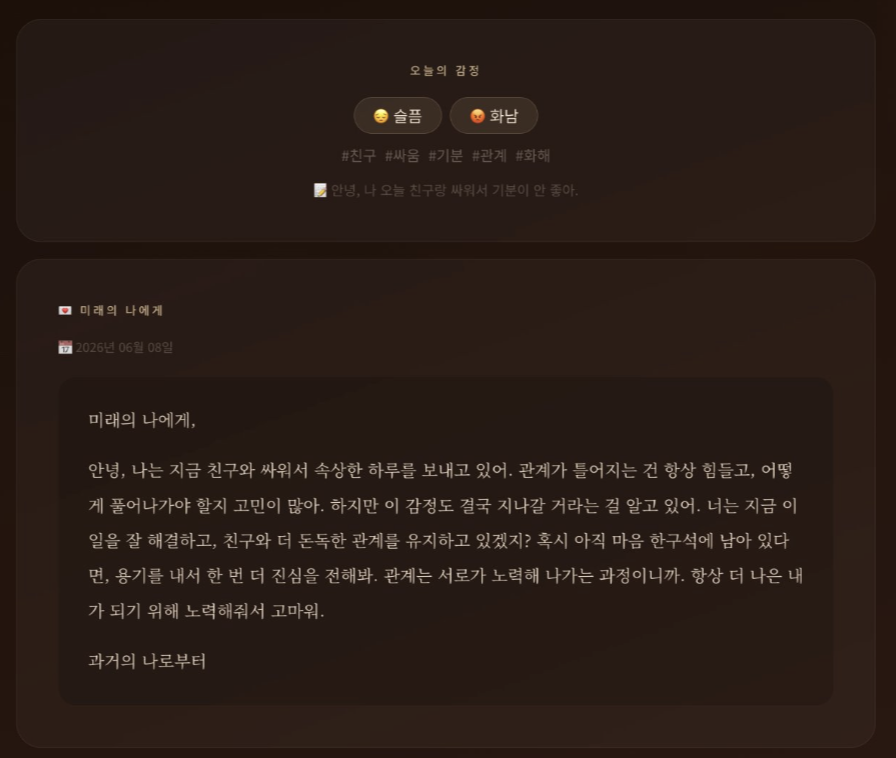
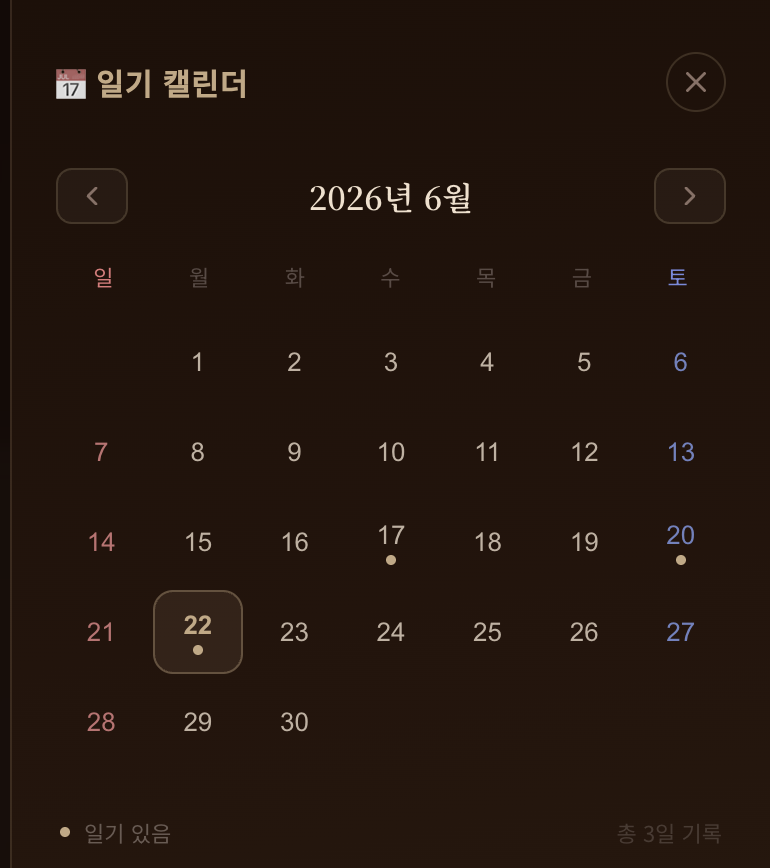
프로젝트 이미지 갤러리 캐러셀 추가 및 Dear Me 이미지·데이터 업데이트

diff --git a/src/components/web/ProjectsSection.tsx b/src/components/web/ProjectsSection.tsx
@@ -1,8 +1,71 @@
 'use client';
-import React, { useState } from 'react';
+import React, { useState, useCallback } from 'react';
 import { PROJECTS, ProjectData } from '@/data/portfolio';
 import { Icon } from '@/components/phone/Icon';
 import { useReveal } from './hooks';
+
+function ImageGallery({ images }: { images: { src: string; caption?: string }[] }) {
+  const [current, setCurrent] = useState(0);
+
+  const prev = useCallback(() => setCurrent(i => Math.max(0, i - 1)), []);
+  const next = useCallback(() => setCurrent(i => Math.min(images.length - 1, i + 1)), [images.length]);
+
+  return (
+    <div style={{ marginTop: 36 }}>
+      <div style={{ position: 'relative', borderRadius: 20, overflow: 'hidden', border: '1px solid var(--border-soft)', background: 'var(--bg-gray)' }}>
+        <img src={images[current].src} alt="" style={{ width: '100%', display: 'block' }} />
+
+        {images.length > 1 && (
+          <>
+            <button
+              onClick={prev}
+              disabled={current === 0}
+              style={{
+                position: 'absolute', left: 12, top: '50%', transform: 'translateY(-50%)',
+                width: 36, height: 36, borderRadius: '50%', border: 'none', cursor: 'pointer',
+                background: 'rgba(0,0,0,0.45)', color: '#fff', display: 'grid', placeItems: 'center',
+                opacity: current === 0 ? 0.25 : 1, transition: 'opacity .2s',
+              }}
+            >
+              <Icon name="back" size={18} />
+            </button>
+            <button
+              onClick={next}
+              disabled={current === images.length - 1}
+              style={{
+                position: 'absolute', right: 12, top: '50%', transform: 'translateY(-50%) scaleX(-1)',
+                width: 36, height: 36, borderRadius: '50%', border: 'none', cursor: 'pointer',
+                background: 'rgba(0,0,0,0.45)', color: '#fff', display: 'grid', placeItems: 'center',
+                opacity: current === images.length - 1 ? 0.25 : 1, transition: 'opacity .2s',
+              }}
+            >
+              <Icon name="back" size={18} />
+            </button>
+          </>
+        )}
+      </div>
+
+      {images.length > 1 && (
+        <div style={{ display: 'flex', alignItems: 'center', justifyContent: 'center', gap: 7, marginTop: 12 }}>
+          {images.map((_, i) => (
+            <button
+              key={i}
+              onClick={() => setCurrent(i)}
+              style={{
+                width: i === current ? 20 : 7, height: 7, borderRadius: 99,
+                border: 'none', background: i === current ? 'var(--accent)' : 'var(--border)',
+                cursor: 'pointer', padding: 0, transition: 'all .25s',
+              }}
+            />
+          ))}
+        </div>
+      )}
+      {images[current].caption && (
+        <div className="dt-cap" style={{ marginTop: 8 }}>{images[current].caption}</div>
+      )}
+    </div>
+  );
+}
 
 type FilterKey = 'all' | 'company' | 'team' | 'personal';
 const SEGS: [FilterKey, string][] = [['all', '전체'], ['company', '회사'], ['team', '팀'], ['personal', '개인']];
@@ -102,27 +165,7 @@ function ProjectDetailWeb({ id, onClose }: ProjectDetailWebProps) {
           {pr.tags.map(t => <span key={t} className="chip">{t}</span>)}
         </div>
 
-        <div className="dt-hero-img"><img src={pr.image.src} alt="" /></div>
-        {pr.image.caption && <div className="dt-cap">{pr.image.caption}</div>}
-
-        {pr.image2 && (
-          <>
-            <div className="dt-hero-img" style={{ marginTop: 16 }}><img src={pr.image2.src} alt="" /></div>
-            {pr.image2.caption && <div className="dt-cap">{pr.image2.caption}</div>}
-          </>
-        )}
-        {pr.image3 && (
-          <>
-            <div className="dt-hero-img" style={{ marginTop: 16 }}><img src={pr.image3.src} alt="" /></div>
-            {pr.image3.caption && <div className="dt-cap">{pr.image3.caption}</div>}
-          </>
-        )}
-        {pr.image4 && (
-          <>
-            <div className="dt-hero-img" style={{ marginTop: 16 }}><img src={pr.image4.src} alt="" /></div>
-            {pr.image4.caption && <div className="dt-cap">{pr.image4.caption}</div>}
-          </>
-        )}
+        <ImageGallery images={[pr.image, ...(pr.image2 ? [pr.image2] : []), ...(pr.image3 ? [pr.image3] : []), ...(pr.image4 ? [pr.image4] : [])]} />
 
         <div className="dt-section">
           <div className="dt-sec-head">

diff --git a/src/data/portfolio.ts b/src/data/portfolio.ts
@@ -657,6 +657,9 @@ export const PROJECTS: ProjectData[] = [
         "APScheduler + SQLiteJobStore 조합으로 Redis·Celery 없이 예약 발송 durability 확보 — 단일 프로세스로 운영 인프라 최소화",
         "알림톡 미수신 시 SMS 자동 대체 발송으로 발송 신뢰성 확보, 채널별 에러 이력 기록으로 장애 추적 가능",
         "STT → GPT-4o → TTS End-to-End 파이프라인 단일화로 음성 입력부터 편지 낭독까지 외부 의존성 없이 Azure 단일 스택으로 완결",
+        "LLM API를 단발 호출이 아닌 인증·발송·스케줄링이 결합된 운영 가능한 서비스로 구축 — LLM 기반 서비스 상용화 수준의 설계·구현 경험 확보",
+        "LangChain LCEL 체인 설계로 프롬프트·LLM·파서를 독립 교체 가능한 구조화 — 향후 LangGraph 기반 멀티스텝 에이전트로 확장 가능한 기반 마련",
+        "LangChain RAG 적용으로 일기가 쌓일수록 과거 감정 흐름이 반영된 개인화 편지 생성 — 단순 LLM 직접 호출 대비 맥락 연속성 확보",
       ],
     },
   },

diff --git a/app/globals.css b/app/globals.css
@@ -259,6 +259,7 @@ section { position: relative; }
 .dt-subtitle { font-size: 16px; color: var(--accent); font-weight: 700; margin-bottom: 8px; }
 .dt-summary { font-size: 18px; color: var(--text-2); line-height: 1.7; margin-top: 20px; }
 .dt-hero-img { margin-top: 36px; border-radius: 20px; overflow: hidden; background: var(--bg-gray); border: 1px solid var(--border-soft); }
+.dt-hero-img img { width: 100%; display: block; }
 .dt-cap { font-size: 13px; color: var(--text-3); text-align: center; margin-top: 12px; }
 
 .dt-section { margin-top: 64px; }
